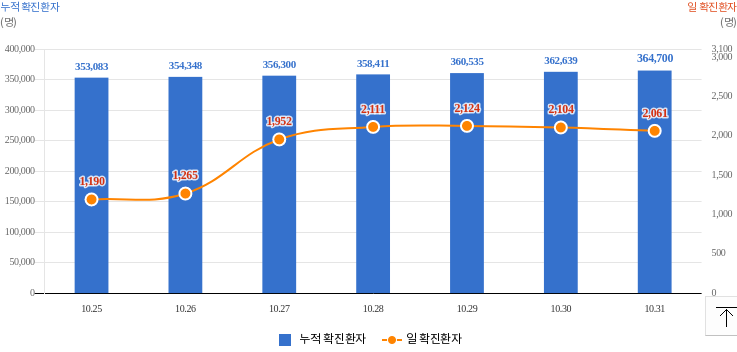
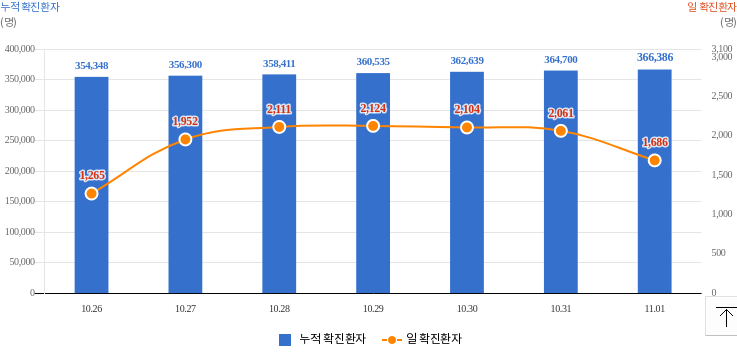
Run crawler and update current data

diff --git a/data.js b/data.js
@@ -8,7 +8,7 @@ var 검사결과 = '492,151';
 var 자가격리자 = '110';
 var 거리두기단계 = ' 코로나19 무료 희망검사 병원 선별진료소 안내
 ';
-var 국내발생 = '2,052';
-var 해외발생 = '9';
-var 합계 = '2061';
+var 국내발생 = '1,666';
+var 해외발생 = '20';
+var 합계 = '1686';
 var data = [];
